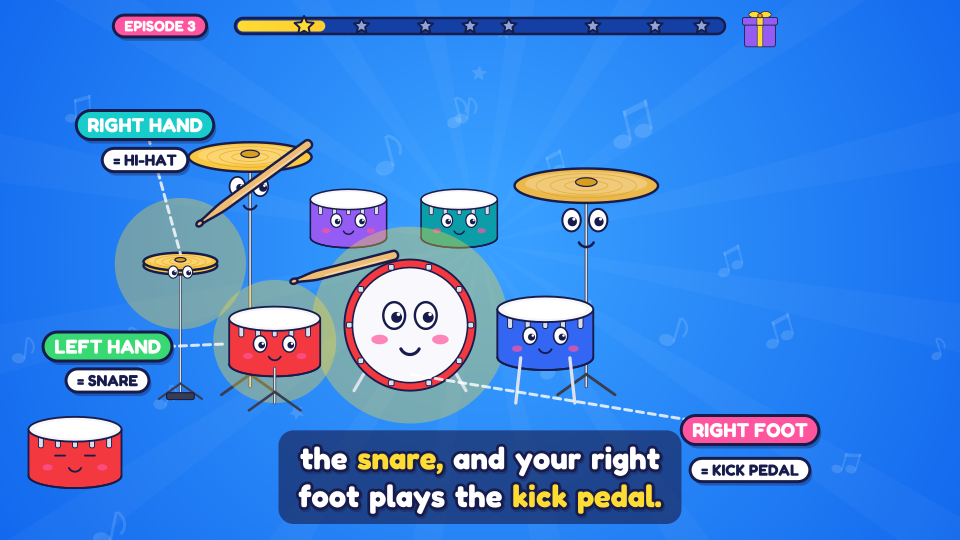
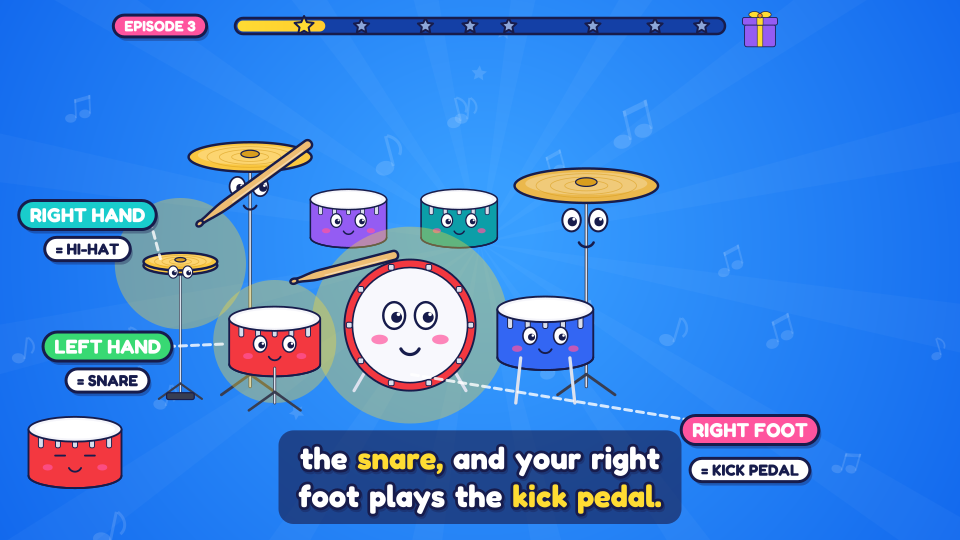
Episode 3: lower right-hand label next to the hi-hat
Claude-Session: https://claude.ai/code/session_01VntTTqkkjRaS2iKDPr8jPr

Changed region(s): [[0.0, 0.3556, 0.1875, 0.5037], [0.0625, 0.1778, 0.25, 0.3259]]

diff --git a/tools/episode-03/ep3.py b/tools/episode-03/ep3.py
@@ -552,9 +552,9 @@ def sc_plan(ctx, t):
     sx, sy = 820 - 330 * .82, 560 + 150 * .82         # snare centre on screen
     tr = wt('right', 51); th = wt('hi-hat,', 52)
     if t >= tr:   # RIGHT HAND / = HI-HAT: upper left, pointer line down to the hi-hat (creator's preferred version)
-        line(ctx, 290, 250, hx, hy - 20, WHITE, 6, .8 * clamp(prog(t, tr, .3)), dash=[14, 10])
-        label(ctx, "RIGHT HAND", 290, 250, 40, TEAL, WHITE, scale=pop(t, tr))
-        if t >= th: label(ctx, "= HI-HAT", 290, 320, 32, WHITE, NAVY, scale=pop(t, th))
+        line(ctx, 300, 440, hx - 40, hy - 10, WHITE, 6, .8 * clamp(prog(t, tr, .3)), dash=[14, 10])
+        label(ctx, "RIGHT HAND", 175, 430, 40, TEAL, WHITE, scale=pop(t, tr))
+        if t >= th: label(ctx, "= HI-HAT", 175, 498, 32, WHITE, NAVY, scale=pop(t, th))
     tl = wt('left', 53); ts = wt('snare,', 54)
     if t >= tl:   # LEFT HAND / = SNARE: to the left of the snare
         line(ctx, 335, sy + 10, sx - 100, sy + 5, WHITE, 6, .8 * clamp(prog(t, tl, .3)), dash=[14, 10])
